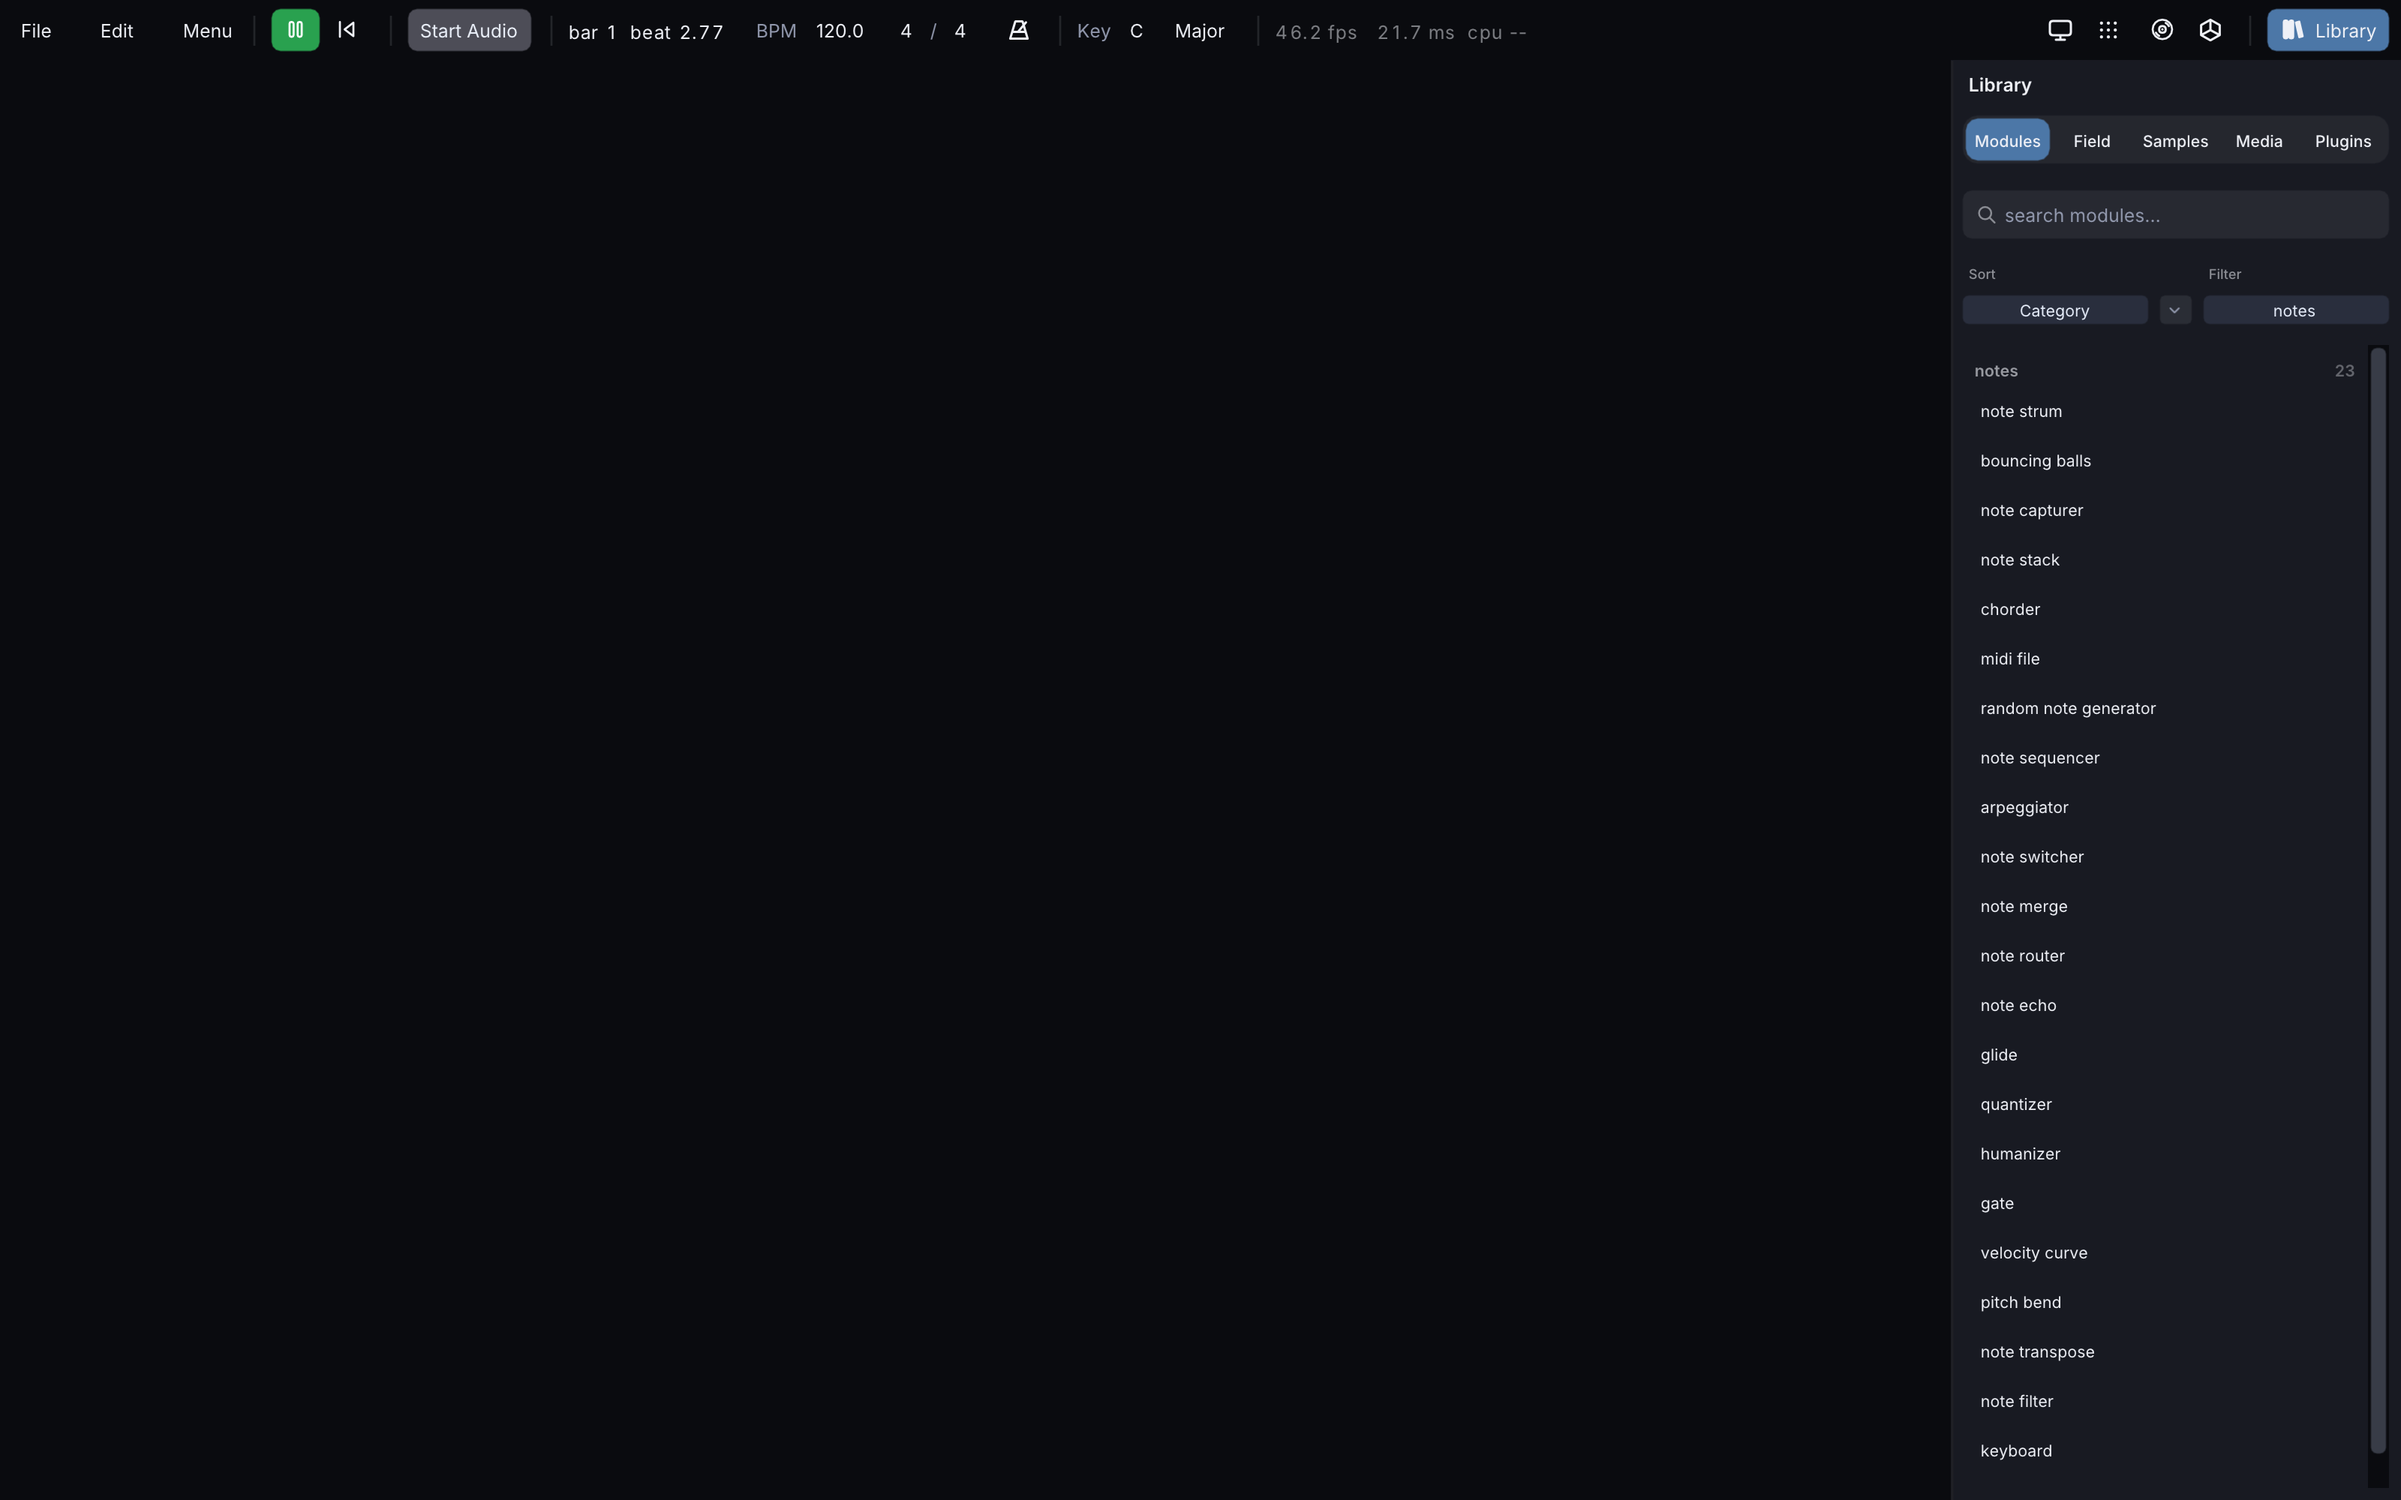
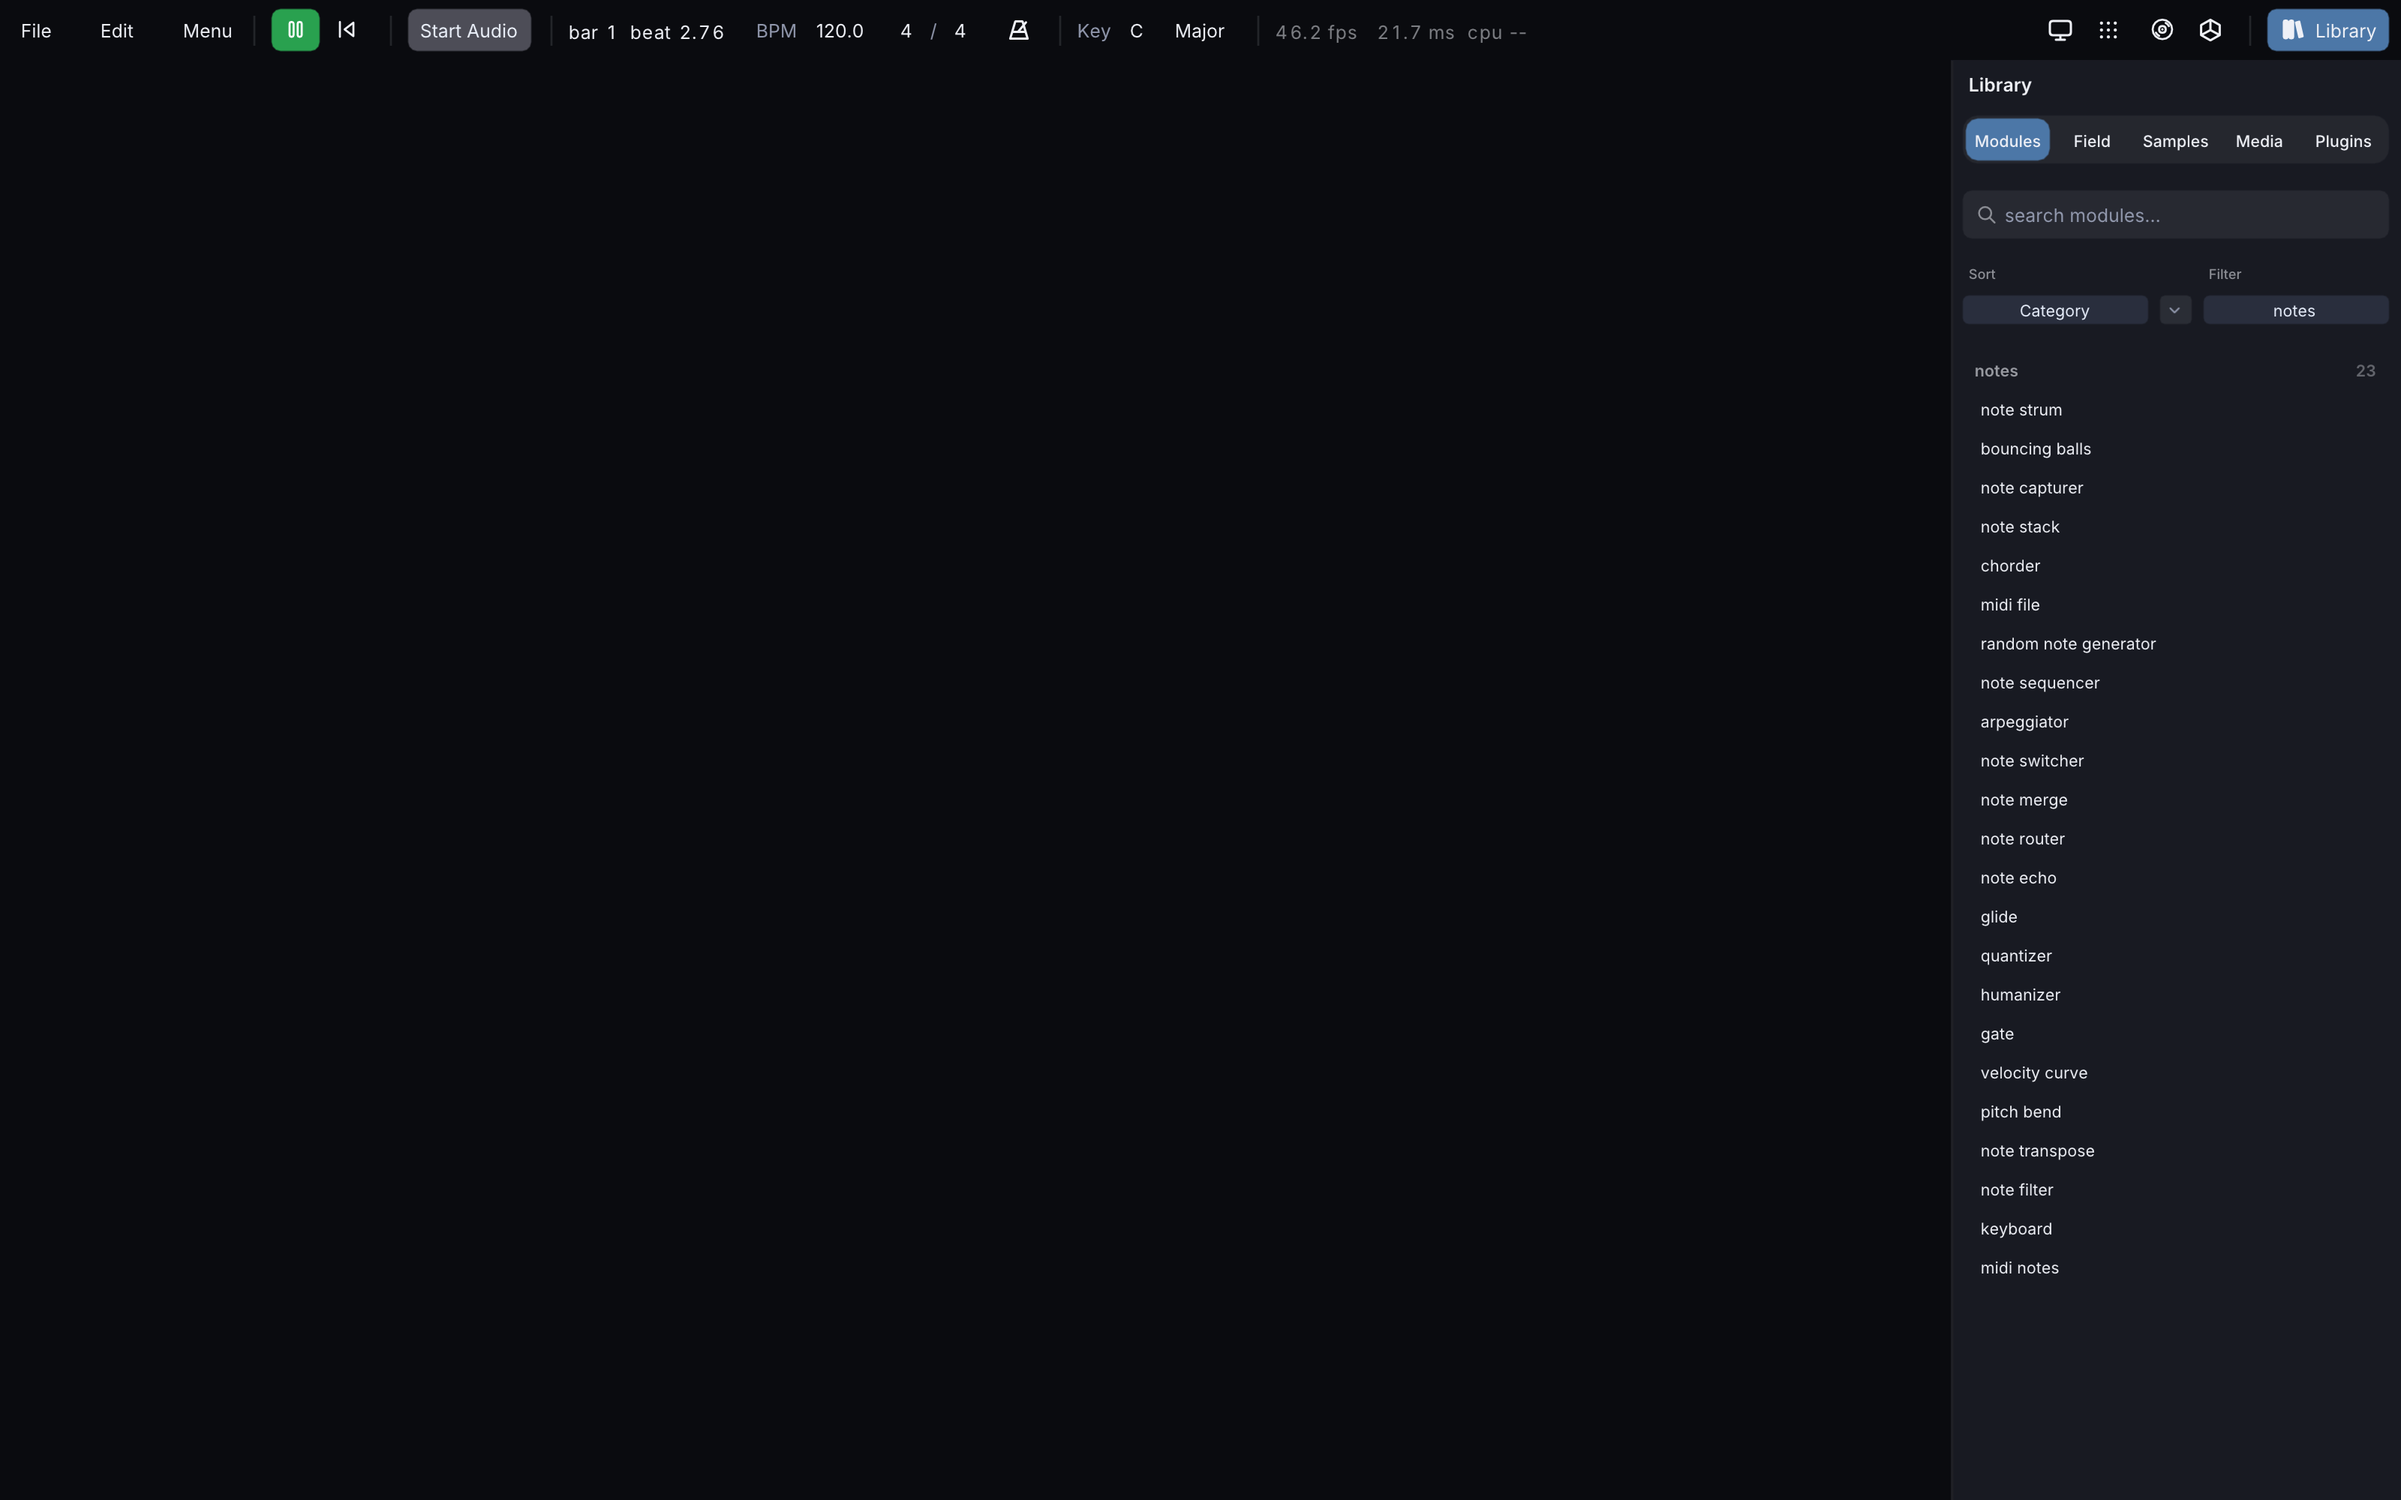
Library rows: 26pt pitch with no extra item spacing; header aligned to row text

diff --git a/src/app/ui/design/components/LibraryParts.h b/src/app/ui/design/components/LibraryParts.h
@@ -14,7 +14,7 @@
 namespace LibraryParts
 {
    constexpr float kFieldH = 32.0f;
-   constexpr float kRowH = 28.0f;
+   constexpr float kRowH = 26.0f;
    constexpr float kHeaderH = 28.0f;
 
    // Search field: rounded well, magnifier at the left, clear (x) at the right while there is text.
@@ -88,13 +88,13 @@ namespace LibraryParts
       ImDrawList* dl = ImGui::GetWindowDrawList();
       const float y = std::round(p.y + top + (kHeaderH - tok::space_2 - ImGui::GetFontSize()) * 0.5f + 2.0f);
       const ImU32 col = ImGui::GetColorU32(ImVec4(text.x, text.y, text.z, 0.6f));
-      dl->AddText(ImVec2(p.x + tok::space_2, y), col, label);
+      dl->AddText(ImVec2(p.x + tok::space_3, y), col, label);
       if (count >= 0)
       {
          char n[16];
          snprintf(n, sizeof(n), "%d", count);
          const ImVec2 sz = ImGui::CalcTextSize(n);
-         dl->AddText(ImVec2(p.x + w - tok::space_2 - sz.x, y),
+         dl->AddText(ImVec2(p.x + w - tok::space_3 - sz.x, y),
                      ImGui::GetColorU32(ImVec4(text.x, text.y, text.z, 0.35f)), n);
       }
    }
@@ -114,7 +114,9 @@ namespace LibraryParts
       const float w = ImGui::GetContentRegionAvail().x;
       const ImVec2 p = ImGui::GetCursorScreenPos();
       ImGui::PushID(id);
+      ImGui::PushStyleVar(ImGuiStyleVar_ItemSpacing, ImVec2(ImGui::GetStyle().ItemSpacing.x, 0.0f));   // rows butt up; the hover tile carries the gap
       r.clicked = ImGui::InvisibleButton("##row", ImVec2(w, kRowH));
+      ImGui::PopStyleVar();
       r.hovered = ImGui::IsItemHovered();
       const bool down = ImGui::IsItemActive();
       const float hv = UiAnim::Hover(ImGui::GetItemID(), r.hovered, tok::motion_hover_in, tok::motion_hover_out);
